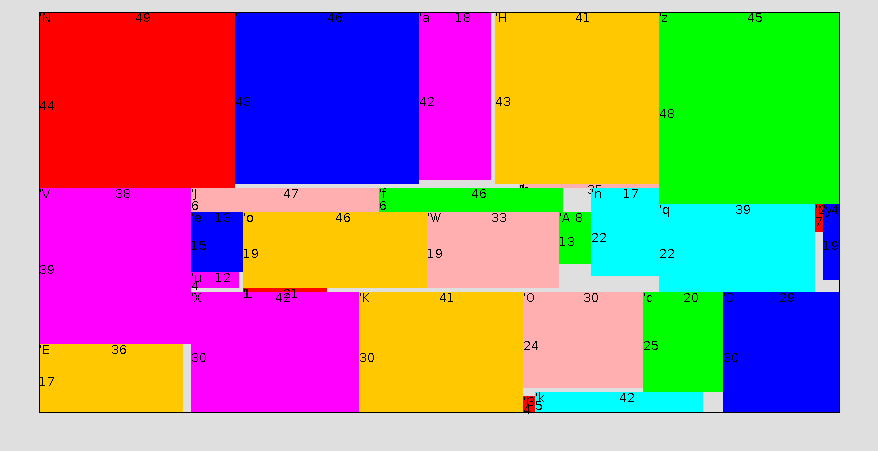
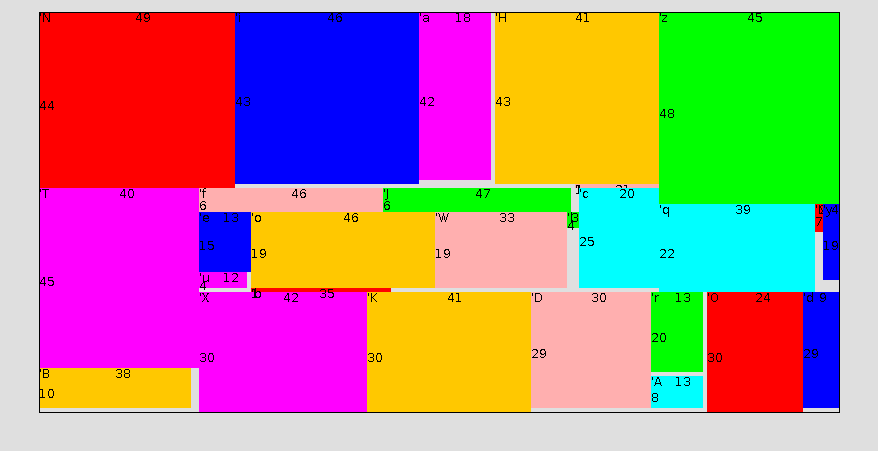
update the best score (507 -> 484)

diff --git a/README.md b/README.md
@@ -114,6 +114,6 @@ Scala 2.9.1.final (OpenJDK Server VM, Java 1.6.0_24).
 
 ### 解答.2 BEST
 
-隙間の総面積は507。
+隙間の総面積は484。
 
-![blank=507 N,i,a,H,b,z,q,M,y,X,K,O,c,k,l,D,V,E,J,f,n,L,e,u,o,W,A](https://raw.github.com/tono-nakae/package-loading-problem/master/Answer2-best.png)
+![blank=484 N,i,a,H,L,z,q,M,y,X,K,D,r,A,O,d,T,B,f,J,c,b,e,u,o,W,l](https://raw.github.com/tono-nakae/package-loading-problem/master/Answer2-best.png)
